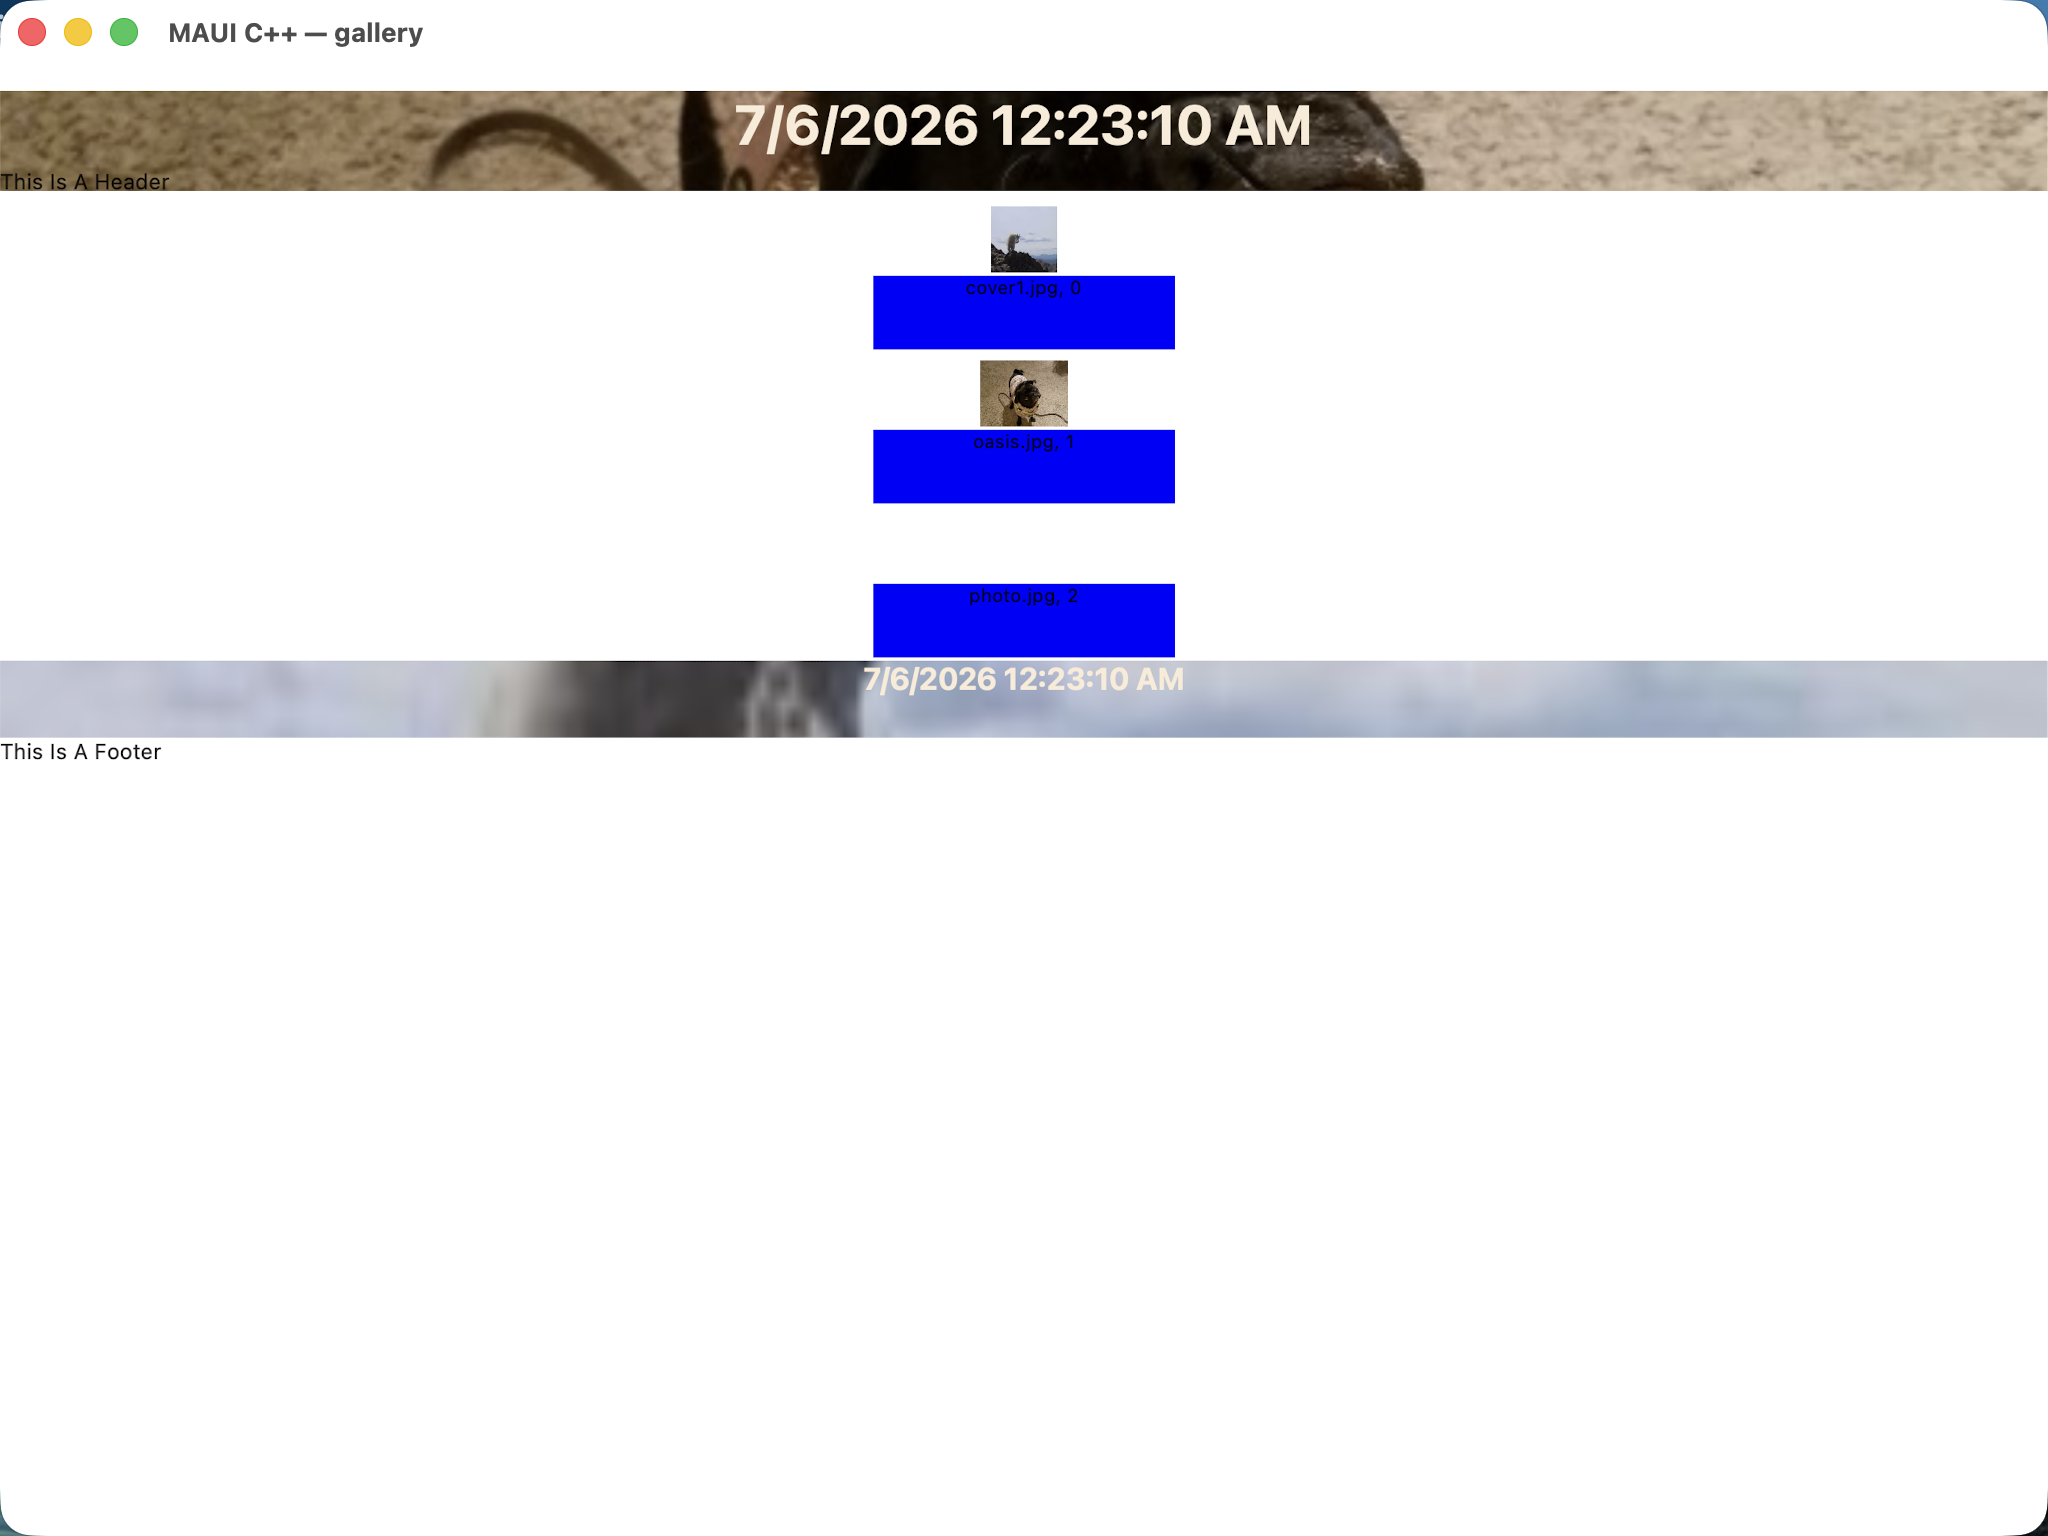
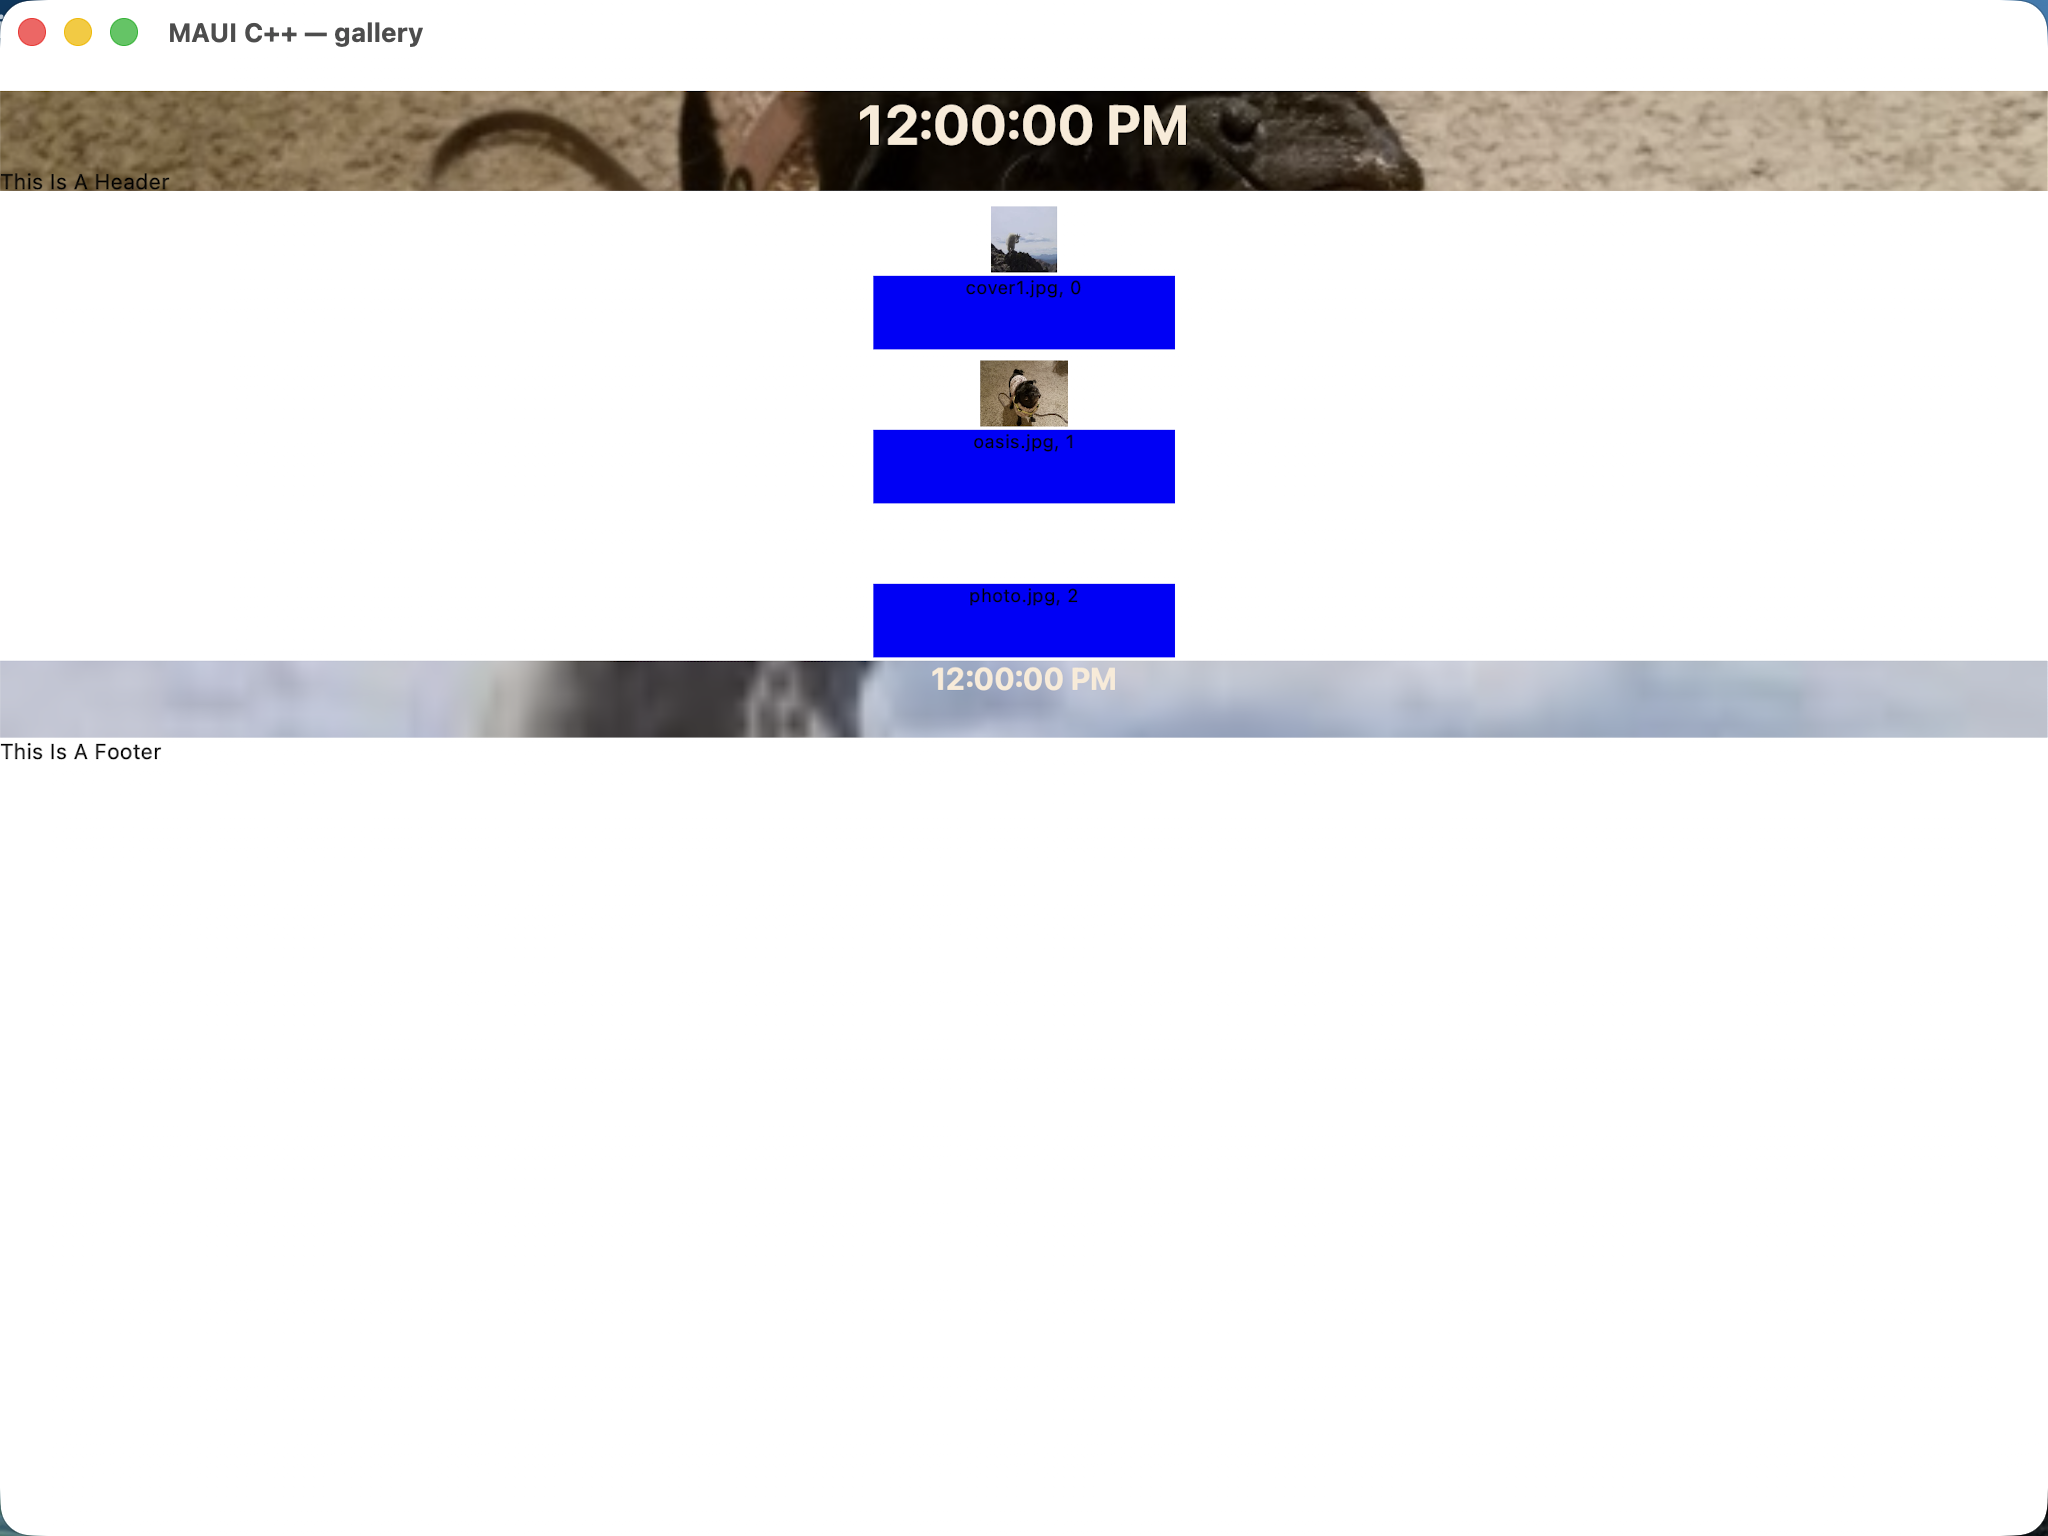
fix(gallery): header_footer_template showed capture-time wall clock
The builder page seeded the header/footer chrome's CurrentTime model with
std::chrono::system_clock::now() at construction, so the resting capture
showed the exact moment the screenshot was taken ("7/6/2026 12:23:10 AM")
instead of the shared XAML's fixed reference stamp ("12:00:00 PM" — both
HeaderTemplate and FooterTemplate hard-code this text). Per
maui-reference/docs/AUTHORING.md rule 8 (no wall-clock dates/times), pin the
initial model to the fixed reference string; the live now_string() helper is
kept only for the interactive tap_header()/tap_footer() re-stamp.

Changed region(s): [[0.3438, 0.0625, 0.6562, 0.0938], [0.4375, 0.4375, 0.5938, 0.4688]]

diff --git a/port/cpp/examples/gallery/pages/header_footer_template_page.hpp b/port/cpp/examples/gallery/pages/header_footer_template_page.hpp
@@ -241,8 +241,12 @@ namespace maui::samples
 
         header_footer_template_page()
             : items_(std::make_shared<maui::core::observable_collection<demo_item>>(seed_items())),
-              // HeaderFooterDemoModel(): CurrentTime = DateTime.Now.
-              model_{now_string()},
+              // HeaderFooterDemoModel(): CurrentTime = DateTime.Now in the original C#, but the shared
+              // twin XAML pins this to a fixed reference value ("12:00:00 PM") for deterministic pixel
+              // comparison (port/maui-reference/docs/AUTHORING.md rule 8: no wall-clock dates/times).
+              // The port's initial stamp matches that fixed value; only an explicit tap_header()/
+              // tap_footer() re-stamp (below) advances it to the live wall-clock time.
+              model_{fixed_reference_time_string()},
               // TapCommand => CurrentTime = DateTime.Now (re-stamp + re-realize the chrome).
               tap_command_(std::make_shared<maui::controls::command>([this] { restamp_time(); }))
         {
@@ -326,6 +330,14 @@ namespace maui::samples
                 rows.push_back(demo_item{.caption = image + ", " + std::to_string(n), .image_name = image});
             }
             return rows;
+        }
+
+        // The shared twin XAML's fixed reference stamp (both HeaderTemplate and FooterTemplate hard-code
+        // Text="12:00:00 PM" — see port/maui-reference/pages/header_footer_template.xaml) — the resting
+        // capture must show this, not the capture-time wall clock.
+        [[nodiscard]] static std::string fixed_reference_time_string()
+        {
+            return "12:00:00 PM";
         }
 
         // DateTime.Now, formatted as C#'s DateTime.ToString() does for en-US: "M/d/yyyy h:mm:ss tt"
